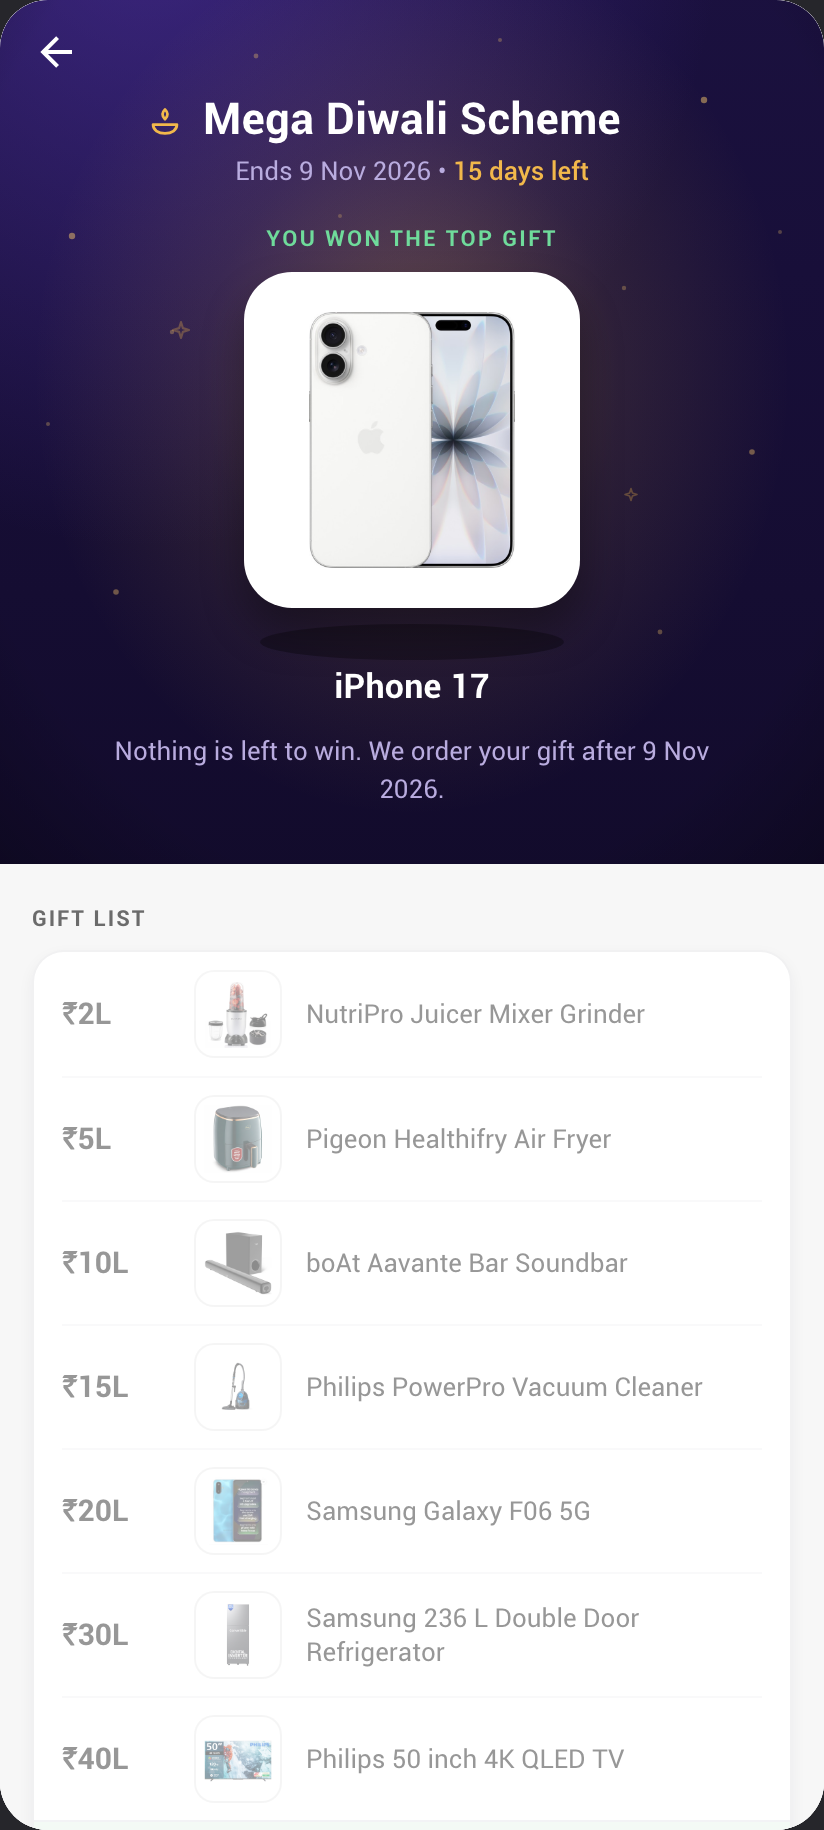
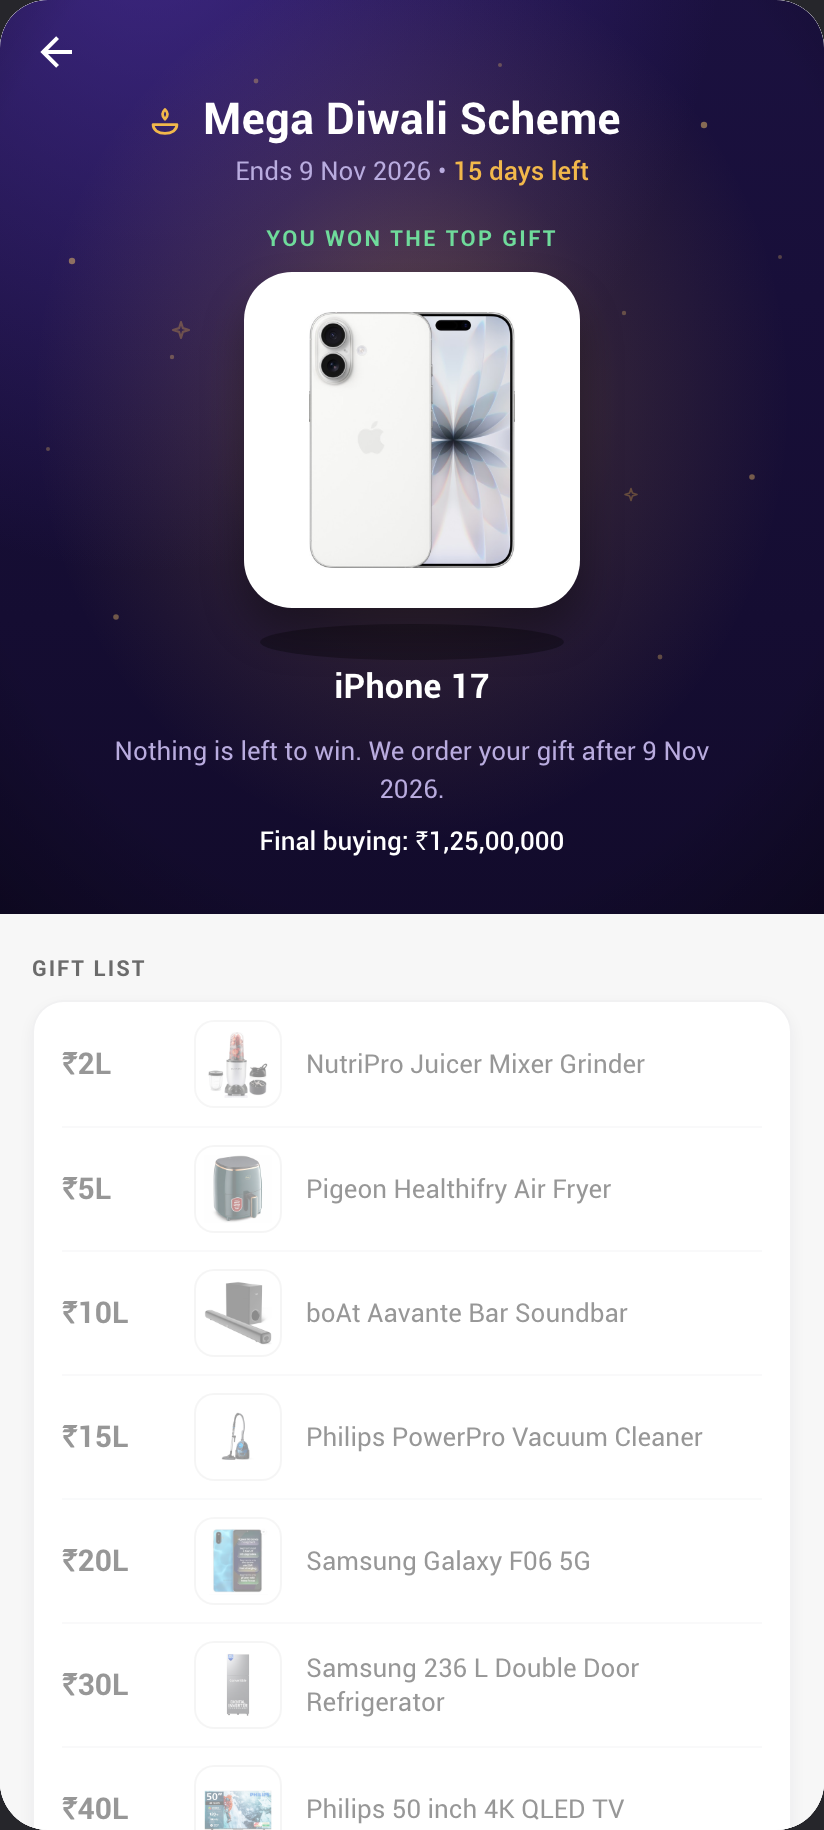
UX-law audit: signifiers, proximity grouping, peak-end, ledger closure
- Norman signifier: a navigable card shows a chevron after its chip (band and
  plain title rows); a card with no detail page shows nothing. The chevron
  needed a positioned View wrapper: a bare svg paints under the band scene.
- Gestalt proximity: the ask now groups with the CTA (capsule->ask 36,
  ask->CTA 27) instead of floating equidistant between capsule and button.
- Label grammar: LIFESTYLE BOUGHT SO FAR read as 'lifestyle bought'; now
  'BOUGHT SO FAR - LIFESTYLE ONLY' (value first, scope as qualifier).
- Peak-end: a missed scheme no longer ends on a dimmed list of the gifts it
  did not win; the stage's redirect to running schemes closes the story.
- Von Restorff / peak placement: confetti also fires on DELIVERED, the true
  emotional peak, not only during the running win states.
- Ledger closure: once the meter is gone (top reached, ended-with-win) the
  page states 'Final buying: RsX' so the retailer can still reconcile the
  counted total against their books. Hindi strings added for both.

diff --git a/app/mega-diwali/index.js b/app/mega-diwali/index.js
@@ -115,10 +115,11 @@ const T = {
     topGift: 'TOP GIFT',
     wonTop: 'YOU WON THE TOP GIFT',
     securedRow: (name) => `You won the ${name}`,
-    boughtLabel: (ladder) => `${ladder.toUpperCase()} BOUGHT SO FAR`,
+    boughtLabel: (ladder) => `BOUGHT SO FAR \u2022 ${ladder.toUpperCase()} ONLY`,
     morePrefix: '', moreSuffix: ' more',
     onlyPrefix: 'Only ', onlySuffix: ' left',
     rest: (next) => `to win the ${next}`,
+    finalBought: (amt) => `Final buying: ${amt}`,
     cta: (ladder) => `Shop ${ladder} products`,
     ctaEnded: 'See running schemes',
     startsNote: (d, ladder) => `Buy ${ladder} products from ${d}. The highest slab you cross is your gift.`,
@@ -155,6 +156,7 @@ const T = {
     morePrefix: '', moreSuffix: ' और चाहिए',
     onlyPrefix: 'सिर्फ़ ', onlySuffix: ' और',
     rest: (next) => `और ${next} जीतें`,
+    finalBought: (amt) => `कुल ख़रीदारी: ${amt}`,
     cta: (ladder) => `${ladder} प्रोडक्ट ख़रीदें`,
     ctaEnded: 'चल रही स्कीमें देखें',
     startsNote: (d, ladder) => `${d} से ${ladder} प्रोडक्ट ख़रीदें। जो सबसे ऊँचा स्लैब पार करें, वही गिफ़्ट आपका।`,
@@ -331,7 +333,7 @@ export default function SchemeDetail() {
 
   // Delight: a short confetti burst greets a page that holds a won gift. It
   // fades out; it never loops or cuts.
-  const celebrate = s.earned && !s.ended && !STATIC;
+  const celebrate = (s.earned && !s.ended && !STATIC) || (s.state === STATE.DELIVERED && !STATIC);
   const [confetti, setConfetti] = useState(false);
   const confettiA = useRef(new Animated.Value(0)).current;
   useEffect(() => {
@@ -544,9 +546,16 @@ export default function SchemeDetail() {
                   </Animated.View>
                 </>
               ) : heroNote ? (
-                <Animated.Text style={[styles.heroNote, { color: st.sub }, rise(nameA, 8)]} allowFontScaling={false}>
-                  {heroNote}
-                </Animated.Text>
+                <Animated.View style={rise(nameA, 8)}>
+                  <Text style={[styles.heroNote, { color: st.sub }]} allowFontScaling={false}>{heroNote}</Text>
+                  {/* The meter is gone once nothing is next, but the retailer still
+                      reconciles the counted total against their own books. */}
+                  {s.earned ? (
+                    <Text style={[styles.finalBought, TABULAR, { color: st.ink }]} allowFontScaling={false}>
+                      {t.finalBought(indianPrice(s.currentValue))}
+                    </Text>
+                  ) : null}
+                </Animated.View>
               ) : null}
             </>
           )}
@@ -617,9 +626,12 @@ export default function SchemeDetail() {
           </>
         ) : null}
 
-        {/* ——— The gift list ——— */}
+        {/* ——— The gift list. A missed scheme does not end on a page of lost
+            gifts (peak-end); the stage's redirect to running schemes closes it. */}
+        {missed ? null : (
+        <>
         <Text style={styles.listLabel} allowFontScaling={false}>{t.giftList}</Text>
-        <View style={[styles.list, missed && { opacity: 0.6 }]}>
+        <View style={styles.list}>
           {s.ladder.map((tier, i) => {
             const isTop = tier.at === s.top.at;
             const isWon = s.secured && tier.at === s.secured.at;
@@ -676,6 +688,8 @@ export default function SchemeDetail() {
             );
           })}
         </View>
+        </>
+        )}
 
         {/* Three facts. The whole rulebook on this page. */}
         {!s.ended ? (
@@ -788,6 +802,7 @@ const styles = StyleSheet.create({
   tileImg: { width: 128, height: 128, borderRadius: 12 },
   giftName: { marginTop: 2, textAlign: 'center', fontFamily: F.bold, fontSize: 17, lineHeight: 22, paddingHorizontal: 24, letterSpacing: 0.1 },
   heroNote: { marginTop: 12, textAlign: 'center', fontFamily: F.regular, fontSize: 13, lineHeight: 19, paddingHorizontal: 44 },
+  finalBought: { marginTop: 8, textAlign: 'center', fontFamily: F.medium, fontSize: 13, lineHeight: 17 },
 
   // The label belongs to the meter, so it anchors at the track's left edge and
   // holds still while the value tag moves with the knob.
@@ -821,12 +836,12 @@ const styles = StyleSheet.create({
   barEnds: { marginTop: 6, marginHorizontal: 32, flexDirection: 'row', justifyContent: 'space-between' },
   barEnd: { fontFamily: F.medium, fontSize: 11, lineHeight: 15 },
 
-  bigMore: { marginTop: 18, textAlign: 'center', fontFamily: F.bold, fontSize: 30, lineHeight: 36 },
+  bigMore: { marginTop: 24, textAlign: 'center', fontFamily: F.bold, fontSize: 30, lineHeight: 36 },
   bigMoreWord: { fontFamily: F.medium, fontSize: 17, lineHeight: 36 },
   bigRest: { marginTop: 2, textAlign: 'center', fontFamily: F.medium, fontSize: 14, lineHeight: 19, paddingHorizontal: 24 },
 
   cta: {
-    marginTop: 14,
+    marginTop: 10,
     marginHorizontal: 32,
     height: 52,
     borderRadius: 26,

diff --git a/src/gifts/solv.js b/src/gifts/solv.js
@@ -19,6 +19,7 @@
 import React, { useEffect, useRef, useState } from 'react';
 import { View, Text, Image, Pressable, StyleSheet, Animated, Easing } from 'react-native';
 import { LinearGradient } from 'expo-linear-gradient';
+import Svg, { Path } from 'react-native-svg';
 import { F } from '../theme';
 import GiftGlyph from './icons';
 import { STATE } from './state';
@@ -171,6 +172,17 @@ export function SchemeCard({ card, onPress, index = 0 }) {
 
   const h = card.headline;
 
+  // A tappable card must SAY it opens (Norman: perceivable signifier); a card
+  // with no detail page shows nothing and does not pretend. The View wrapper is
+  // positioned (RN default), so the glyph paints above the band's absolute scene.
+  const chevron = onPress ? (
+    <View>
+      <Svg width={18} height={18} viewBox="0 0 24 24">
+        <Path fill={festive ? 'rgba(255,255,255,0.75)' : '#A9AEB8'} d="M8.59,16.58L13.17,12L8.59,7.41L10,6l6,6l-6,6L8.59,16.58z" />
+      </Svg>
+    </View>
+  ) : null;
+
   return (
     <Animated.View
       style={{
@@ -194,11 +206,13 @@ export function SchemeCard({ card, onPress, index = 0 }) {
               </View>
               <Text style={styles.bandTitle} numberOfLines={1} allowFontScaling={false}>{card.title}</Text>
               {chip}
+              {chevron}
             </View>
           ) : (
             <View style={styles.titleRow}>
               <Text style={styles.title} numberOfLines={1} allowFontScaling={false}>{card.title}</Text>
               {chip}
+              {chevron}
             </View>
           )}
 
